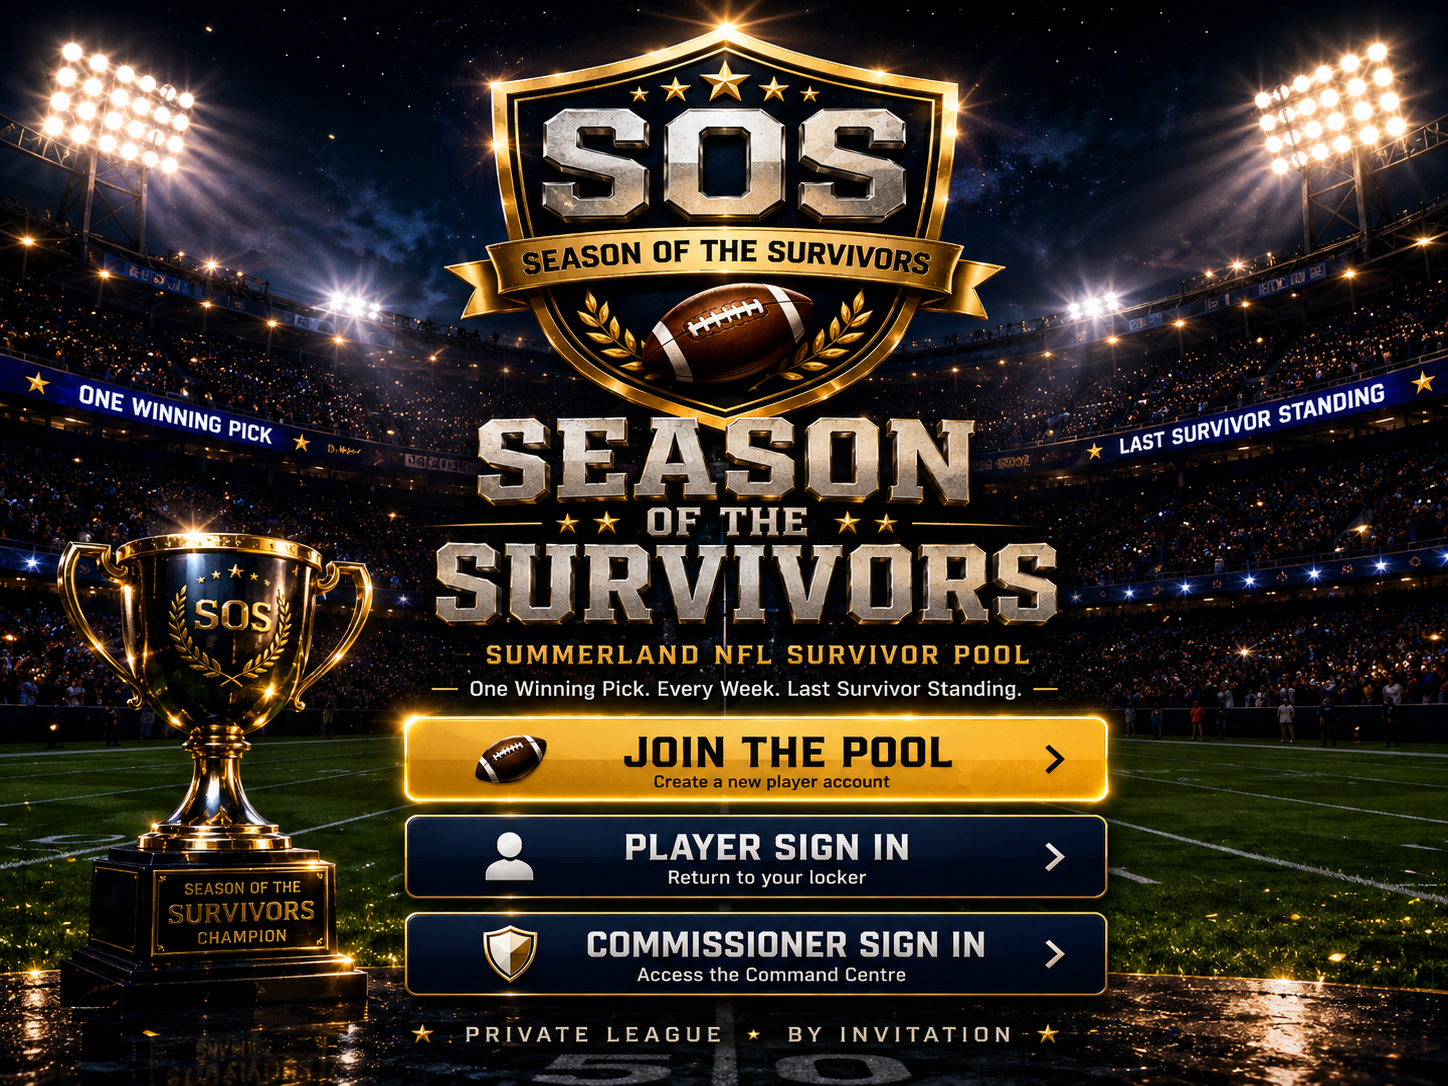
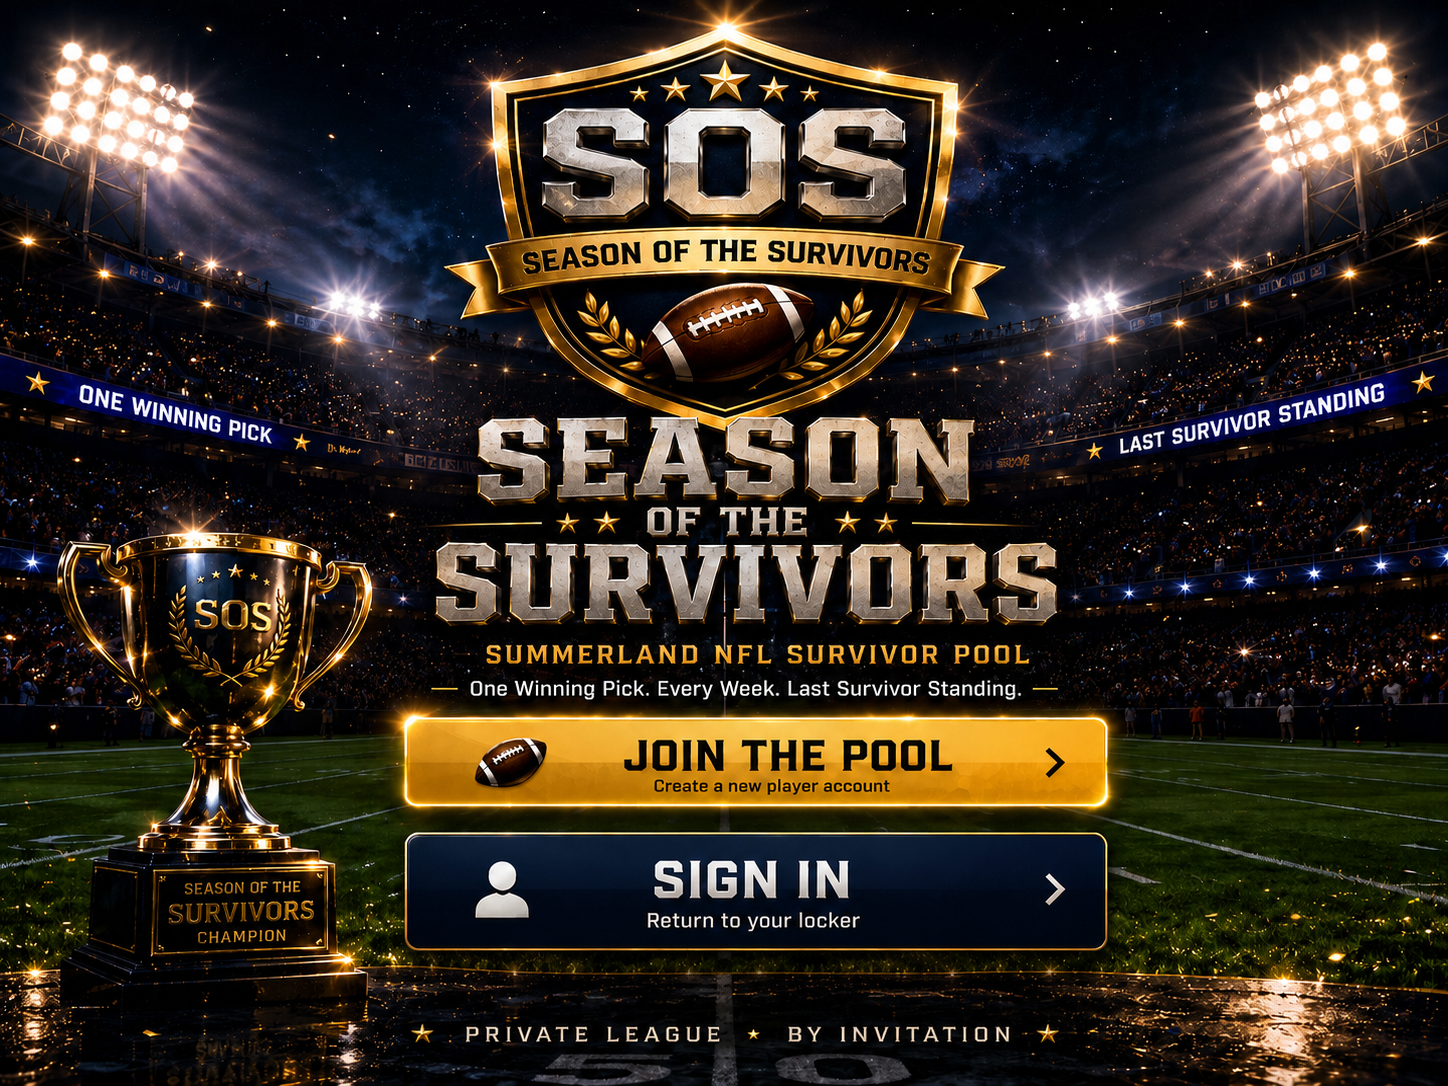
Add files via upload

diff --git a/index.html b/index.html
@@ -10,158 +10,19 @@
   <link rel="stylesheet" href="styles.css?v=3541">
   <script src="https://cdn.jsdelivr.net/npm/@supabase/supabase-js@2"></script>
 
-<style id="singleSignInCleanDesign">
-  .stadium-opening{
-    position:relative;
-  }
-
-  .stadium-opening-actions{
+<style id="singleLoginHotspot">
+  .stadium-hotspot.stadium-single-login{
     position:absolute;
-    inset:0;
-    pointer-events:none;
-  }
-
-  .stadium-opening-actions > *{
-    pointer-events:auto;
-  }
-
-  .single-signin-deck{
-    position:absolute;
-    left:27.6%;
-    top:80.8%;
-    width:48.8%;
-    height:18.2%;
-    z-index:20;
-    box-sizing:border-box;
-    padding:1.2% 1.1% .8%;
-    display:flex;
-    flex-direction:column;
-    align-items:stretch;
-    justify-content:center;
-    gap:8%;
-    background:
-      radial-gradient(ellipse at 50% 100%, rgba(33,76,71,.44), transparent 58%),
-      linear-gradient(180deg, rgba(5,18,34,.995), rgba(3,15,29,.995));
-    border-top:1px solid rgba(218,170,61,.38);
-    border-radius:10px;
-    box-shadow:
-      0 -6px 20px rgba(2,9,18,.72),
-      0 8px 22px rgba(0,0,0,.48);
-    overflow:hidden;
-  }
-
-  .single-signin-button{
-    width:100%;
-    min-height:54%;
-    margin:0;
-    padding:0 5%;
-    display:grid;
-    grid-template-columns:auto 1fr auto;
-    align-items:center;
-    gap:4%;
-    border:2px solid #d7a62f;
-    border-radius:11px;
-    background:
-      linear-gradient(180deg, rgba(20,53,89,.98), rgba(7,28,55,.99));
-    box-shadow:
-      0 0 12px rgba(225,174,58,.34),
-      inset 0 0 0 1px rgba(255,255,255,.08);
-    color:#fff;
-    font:inherit;
+    left:27.2%;
+    top:77.9%;
+    width:49.0%;
+    height:12.3%;
+    border:0 !important;
+    background:transparent !important;
+    box-shadow:none !important;
+    opacity:0;
+    z-index:12;
     cursor:pointer;
-    text-transform:uppercase;
-  }
-
-  .single-signin-button:active{
-    transform:translateY(1px);
-  }
-
-  .signin-person{
-    width:clamp(25px,3.2vw,44px);
-    height:clamp(25px,3.2vw,44px);
-    border-radius:50%;
-    display:grid;
-    place-items:center;
-    color:#f3f5f7;
-    font-size:0;
-    position:relative;
-  }
-
-  .signin-person::before{
-    content:"";
-    position:absolute;
-    top:3%;
-    left:31%;
-    width:38%;
-    height:38%;
-    border-radius:50%;
-    background:#f0f1f2;
-  }
-
-  .signin-person::after{
-    content:"";
-    position:absolute;
-    left:14%;
-    bottom:4%;
-    width:72%;
-    height:43%;
-    border-radius:50% 50% 16% 16%;
-    background:#f0f1f2;
-  }
-
-  .signin-copy{
-    display:flex;
-    flex-direction:column;
-    align-items:center;
-    justify-content:center;
-    line-height:1;
-    text-align:center;
-  }
-
-  .signin-copy strong{
-    font-size:clamp(20px,2.25vw,35px);
-    letter-spacing:.045em;
-    font-weight:950;
-    text-shadow:0 2px 3px rgba(0,0,0,.64);
-  }
-
-  .signin-copy small{
-    margin-top:4px;
-    font-size:clamp(9px,.95vw,14px);
-    font-weight:650;
-    letter-spacing:.015em;
-    text-transform:none;
-    color:#e8ebef;
-  }
-
-  .signin-arrow{
-    font-size:clamp(30px,3.6vw,52px);
-    line-height:.8;
-    color:#f1ede2;
-    font-weight:300;
-  }
-
-  .single-signin-private{
-    text-align:center;
-    white-space:nowrap;
-    color:#efe4cf;
-    font-size:clamp(9px,1.05vw,15px);
-    font-weight:800;
-    letter-spacing:.12em;
-    text-shadow:0 2px 3px rgba(0,0,0,.8);
-  }
-
-  @media (max-width:700px){
-    .single-signin-deck{
-      left:26.5%;
-      width:51%;
-      top:80.4%;
-      height:18.7%;
-      padding:1.4% 1.2% .8%;
-    }
-    .single-signin-private{
-      letter-spacing:.07em;
-    }
   }
 </style>
 
@@ -190,17 +51,10 @@
 
   <section id="authView" class="panel auth launch-auth">
     <div class="launch-hero stadium-opening" aria-label="Season of the Survivors opening page">
-      <img class="stadium-opening-art" src="opening-stadium.png?v=352" alt="Season of the Survivors stadium opening page with championship crest and trophy">
+      <img class="stadium-opening-art" src="opening-stadium.png?v=3586" alt="Season of the Survivors stadium opening page with championship crest and trophy">
       <div class="stadium-opening-actions" aria-label="Pool access options">
         <button type="button" class="stadium-hotspot stadium-join" aria-label="Join the Pool — create a new player account" onclick="document.querySelector('.auth-forms-shell').classList.remove('hidden'); document.getElementById('signupTab').click(); document.getElementById('firstName').focus(); document.querySelector('.auth-forms-shell').scrollIntoView({behavior:'smooth',block:'start'});"><span>Join the Pool</span></button>
-        <div class="single-signin-deck" aria-label="Pool sign in">
-          <button type="button" class="single-signin-button" aria-label="Sign In — player or commissioner" onclick="document.querySelector('.auth-forms-shell').classList.remove('hidden'); document.getElementById('loginTab').click(); document.getElementById('loginEmail').focus(); document.querySelector('.auth-forms-shell').scrollIntoView({behavior:'smooth',block:'start'});">
-            <span class="signin-person" aria-hidden="true">●</span>
-            <span class="signin-copy"><strong>SIGN IN</strong><small>Return to Season of the Survivors</small></span>
-            <span class="signin-arrow" aria-hidden="true">›</span>
-          </button>
-          <div class="single-signin-private">★ &nbsp; PRIVATE LEAGUE &nbsp; ★ &nbsp; BY INVITATION &nbsp; ★</div>
-        </div>
+        <button type="button" class="stadium-hotspot stadium-single-login" aria-label="Sign In — player or commissioner" onclick="document.querySelector('.auth-forms-shell').classList.remove('hidden'); document.getElementById('loginTab').click(); document.getElementById('loginEmail').focus(); document.querySelector('.auth-forms-shell').scrollIntoView({behavior:'smooth',block:'start'});"><span>Sign In</span></button>
       </div>
     </div>
 
@@ -541,7 +395,7 @@
   </section>
 </main>
 
-<footer><strong>Season of the Survivors</strong><span>Version 3.5.8.5 Clean Single Sign In</span></footer>
+<footer><strong>Season of the Survivors</strong><span>Version 3.5.8.6 Clean Opening</span></footer>
 
 <div id="removePlayerModal" class="remove-player-modal hidden" hidden style="display:none !important;" role="dialog" aria-modal="true" aria-labelledby="removePlayerTitle">
     <div class="remove-player-backdrop"></div>
@@ -607,7 +461,7 @@
 
 
 <script src="config.js"></script>
-<script src="app.js?v=3585"></script>
+<script src="app.js?v=3586"></script>
 
   <div id="creatorCredit" style="text-align:center;color:#9aa3af;font-size:.82rem;padding:10px 12px 18px;letter-spacing:.02em;">
     Season of the Survivors • Created by Wayne Lock
